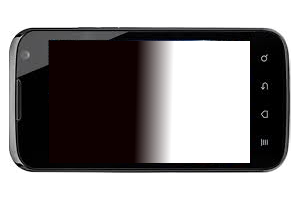
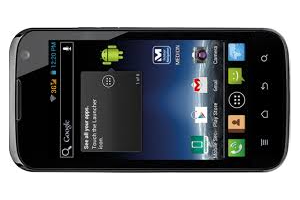
imporved indoor_location

diff --git a/demo_indoor_location/src/com/castoryan/game/android/Game.java b/demo_indoor_location/src/com/castoryan/game/android/Game.java
@@ -20,7 +20,10 @@ import com.badlogic.gdx.graphics.Texture;
 import com.badlogic.gdx.graphics.g2d.BitmapFont;
 import com.badlogic.gdx.graphics.g2d.Sprite;
 import com.badlogic.gdx.graphics.g2d.SpriteBatch;
+import com.badlogic.gdx.scenes.scene2d.InputEvent;
+import com.badlogic.gdx.scenes.scene2d.InputListener;
 import com.badlogic.gdx.scenes.scene2d.Stage;
+import com.badlogic.gdx.utils.viewport.ScreenViewport;
 import com.castoryan.game.android.MyInputProcessor;
 
 import java.util.ArrayList;
@@ -43,14 +46,35 @@ public class Game extends ApplicationAdapter {
     double steplength;
     final double vof_length = 182;
     final double vof_width  = 134;
+    Stage stage;
+
+    MyLauncher launcher;
+
+    public void setLauncher(MyLauncher launcher) {
+        this.launcher = launcher;
+    }
+
+
     @Override
     public void create () {
+
+        stage = new Stage(new ScreenViewport());
+        Gdx.input.setInputProcessor(stage);
+        stage.addListener(new InputListener() {
+            @Override
+            public boolean touchDown(InputEvent event, float x, float y, int pointer, int button) {
+                Log.i("","Down");
+                launcher.returnToSetupActivity();
+                return true;
+            }
+        });
+
         sp_list = new HashMap<String, Sprite>();
         batch = new SpriteBatch();
         background = new Texture("axis.png");
 
         myphone = new Texture("myphone.png");
-        phone = new Texture("p4013.png");
+        phone = new Texture("otherphone.png");
 
 
         sp_phone = new Sprite(phone);
@@ -59,7 +83,7 @@ public class Game extends ApplicationAdapter {
         sp_myphone.setSize(Gdx.graphics.getHeight()*0.1f,Gdx.graphics.getWidth()*0.1f);
         font = new BitmapFont();
         font.setColor(Color.RED);
-        font.setScale(2, 2);
+        font.setScale(1, 1);
 
         steplength = Gdx.graphics.getHeight()/vof_length;
     }
@@ -91,20 +115,21 @@ public class Game extends ApplicationAdapter {
         String st = "ownPosition is x=" + ownPosition.getX() +
                 ", y = " + ownPosition.getY();
         String st2 ="device number is "+GlobalResources.getInstance().getDevices().getAll().size(); //"angle is " + ownPosition.getRotation()+"image width is"+Gdx.graphics.getWidth();
-        font.draw(batch, st, 200, 200);
-        font.draw(batch, st2, 200, 160);
+        String st3 = "screenX =" + String.valueOf(200 + (int) (steplength * ownPosition.getX())) +
+                ", screenY = " + String.valueOf(200 + (int) (steplength * ownPosition.getY()));
+        font.draw(batch, st, 20, 200);
+        font.draw(batch, st2, 20, 170);
+        font.draw(batch, st3, 20, 140);
 
 
 
         MyInputProcessor inputProcessor = new MyInputProcessor();
         Gdx.input.setInputProcessor(inputProcessor);
 
-        sp_myphone.setCenterX(Gdx.graphics.getWidth() / 2 + (int) (steplength * ownPosition.getX()));
-        sp_myphone.setCenterY(Gdx.graphics.getHeight() / 2 + (int) (steplength * ownPosition.getY()));
-//        if(inputProcessor.touchDragged(xx,yy,zz)){
-//            sprite.setX(Gdx.input.getX());
-//            sprite.setY(900-Gdx.input.getY());
-//        }
+        //sp_myphone.setCenterX(Gdx.graphics.getWidth() / 2 + (int) (steplength * ownPosition.getX()));
+        //sp_myphone.setCenterY(Gdx.graphics.getHeight() / 2 + (int) (steplength * ownPosition.getY()));
+        sp_myphone.setCenterX(200 + (int) (steplength * ownPosition.getX()));
+        sp_myphone.setCenterY(200 + (int) (steplength * ownPosition.getY()));
 
         calc = new Calculator();
 
@@ -124,14 +149,14 @@ public class Game extends ApplicationAdapter {
              pAngle = entry.getValue().element1.getRotation();
              sp_phone = sp_list.get(name);
              sp_phone.setSize(Gdx.graphics.getHeight()*0.1f,Gdx.graphics.getWidth()*0.1f);
-             sp_phone.setCenterX(Gdx.graphics.getWidth() / 2 + (int) (steplength * pX2));
-             sp_phone.setCenterY(Gdx.graphics.getHeight() / 2 + (int) (steplength * pY2));
+             sp_phone.setCenterX(200 + (int) (steplength * pX2));
+             sp_phone.setCenterY(200 + (int) (steplength * pY2));
              sp_phone.setRotation( -(int)pAngle );
              sp_phone.draw(batch);
             //break; //Only read the position of the first device.
         }
 
-
+        stage.draw();
 
 //
 //        calc.rotation = ownPosition.getRotation();

diff --git a/demo_indoor_location/src/com/castoryan/game/android/MyLauncher.java b/demo_indoor_location/src/com/castoryan/game/android/MyLauncher.java
@@ -7,6 +7,7 @@ package com.castoryan.game.android;
 import android.content.Intent;
 import android.os.Bundle;
 
+import com.EE5.SetupActivity;
 import com.EE5.image_manipulation.PatternDetector;
 import com.EE5.util.GlobalResources;
 import com.badlogic.gdx.backends.android.AndroidApplication;
@@ -20,20 +21,22 @@ public class MyLauncher extends AndroidApplication {
         super.onCreate(savedInstanceState);
 
         //Start new Activity and block until it returns.
-        startActivityForResult(new Intent("com.EE5.image_manipulation.ImageManipulationsActivity"),0);
+        startActivityForResult(new Intent(getApplicationContext(), com.EE5.SetupActivity.class),0);
         //----------------------------------------------
 
         AndroidApplicationConfiguration config = new AndroidApplicationConfiguration();
-        initialize(new Game(), config);
+        Game game = new Game();
+        game.setLauncher(this);
+        initialize(game, config);
     }
 
     @Override
     protected void onDestroy() {
         super.onDestroy();
-        PatternDetector patternDetector = GlobalResources.getInstance().getPatternDetector();
+        /*PatternDetector patternDetector = GlobalResources.getInstance().getPatternDetector();
         if(patternDetector != null) {
             patternDetector.destroy();
-        }
+        }*/
     }
 
     @Override
@@ -52,6 +55,11 @@ public class MyLauncher extends AndroidApplication {
         if(patternDetector != null) {
             patternDetector.setup();
         }
+    }
+
+    public void returnToSetupActivity(){
+        Intent intent = new Intent(this, SetupActivity.class);
+        startActivity(intent);
     }
 }
 

diff --git a/libLocationAware/src/main/java/com/EE5/image_manipulation/PatternDetector.java b/libLocationAware/src/main/java/com/EE5/image_manipulation/PatternDetector.java
@@ -76,8 +76,8 @@ public class PatternDetector {
                                 //Do no filtering and display the captured image unaltered on the screen.
                                 break;
 
-                            case PatternDetector.VIEW_MODE_CANNY:
-                                //Apply the Canny Edge Detection and find the contours of the pattern.
+                            case PatternDetector.VIEW_MODE_DETECTION:
+                                //Apply Detection Algorithm and find the contours of the pattern.
                                 patternCoordinates = patternDetectorAlgorithm.find(rgba, gray);
                                 break;
                         }
@@ -105,7 +105,7 @@ public class PatternDetector {
     private int camera = 1;
 
     public static final int VIEW_MODE_RGBA = 0;
-    public static final int VIEW_MODE_CANNY = 2; //Canny edge detector
+    public static final int VIEW_MODE_DETECTION = 2; //detector
     private int viewMode = VIEW_MODE_RGBA;
 
     public PatternDetector() {

diff --git a/libLocationAware/src/main/java/com/EE5/image_manipulation/ImageManipulationsActivity.java b/libLocationAware/src/main/java/com/EE5/image_manipulation/ImageManipulationsActivity.java
@@ -193,7 +193,7 @@ public class ImageManipulationsActivity extends Activity {
     private void setupCamera(){
         if(this.patternDetector != null) {
             this.patternDetector.setup();
-            this.patternDetector.setViewMode(PatternDetector.VIEW_MODE_CANNY);
+            this.patternDetector.setViewMode(PatternDetector.VIEW_MODE_DETECTION);
         }
     }
 
